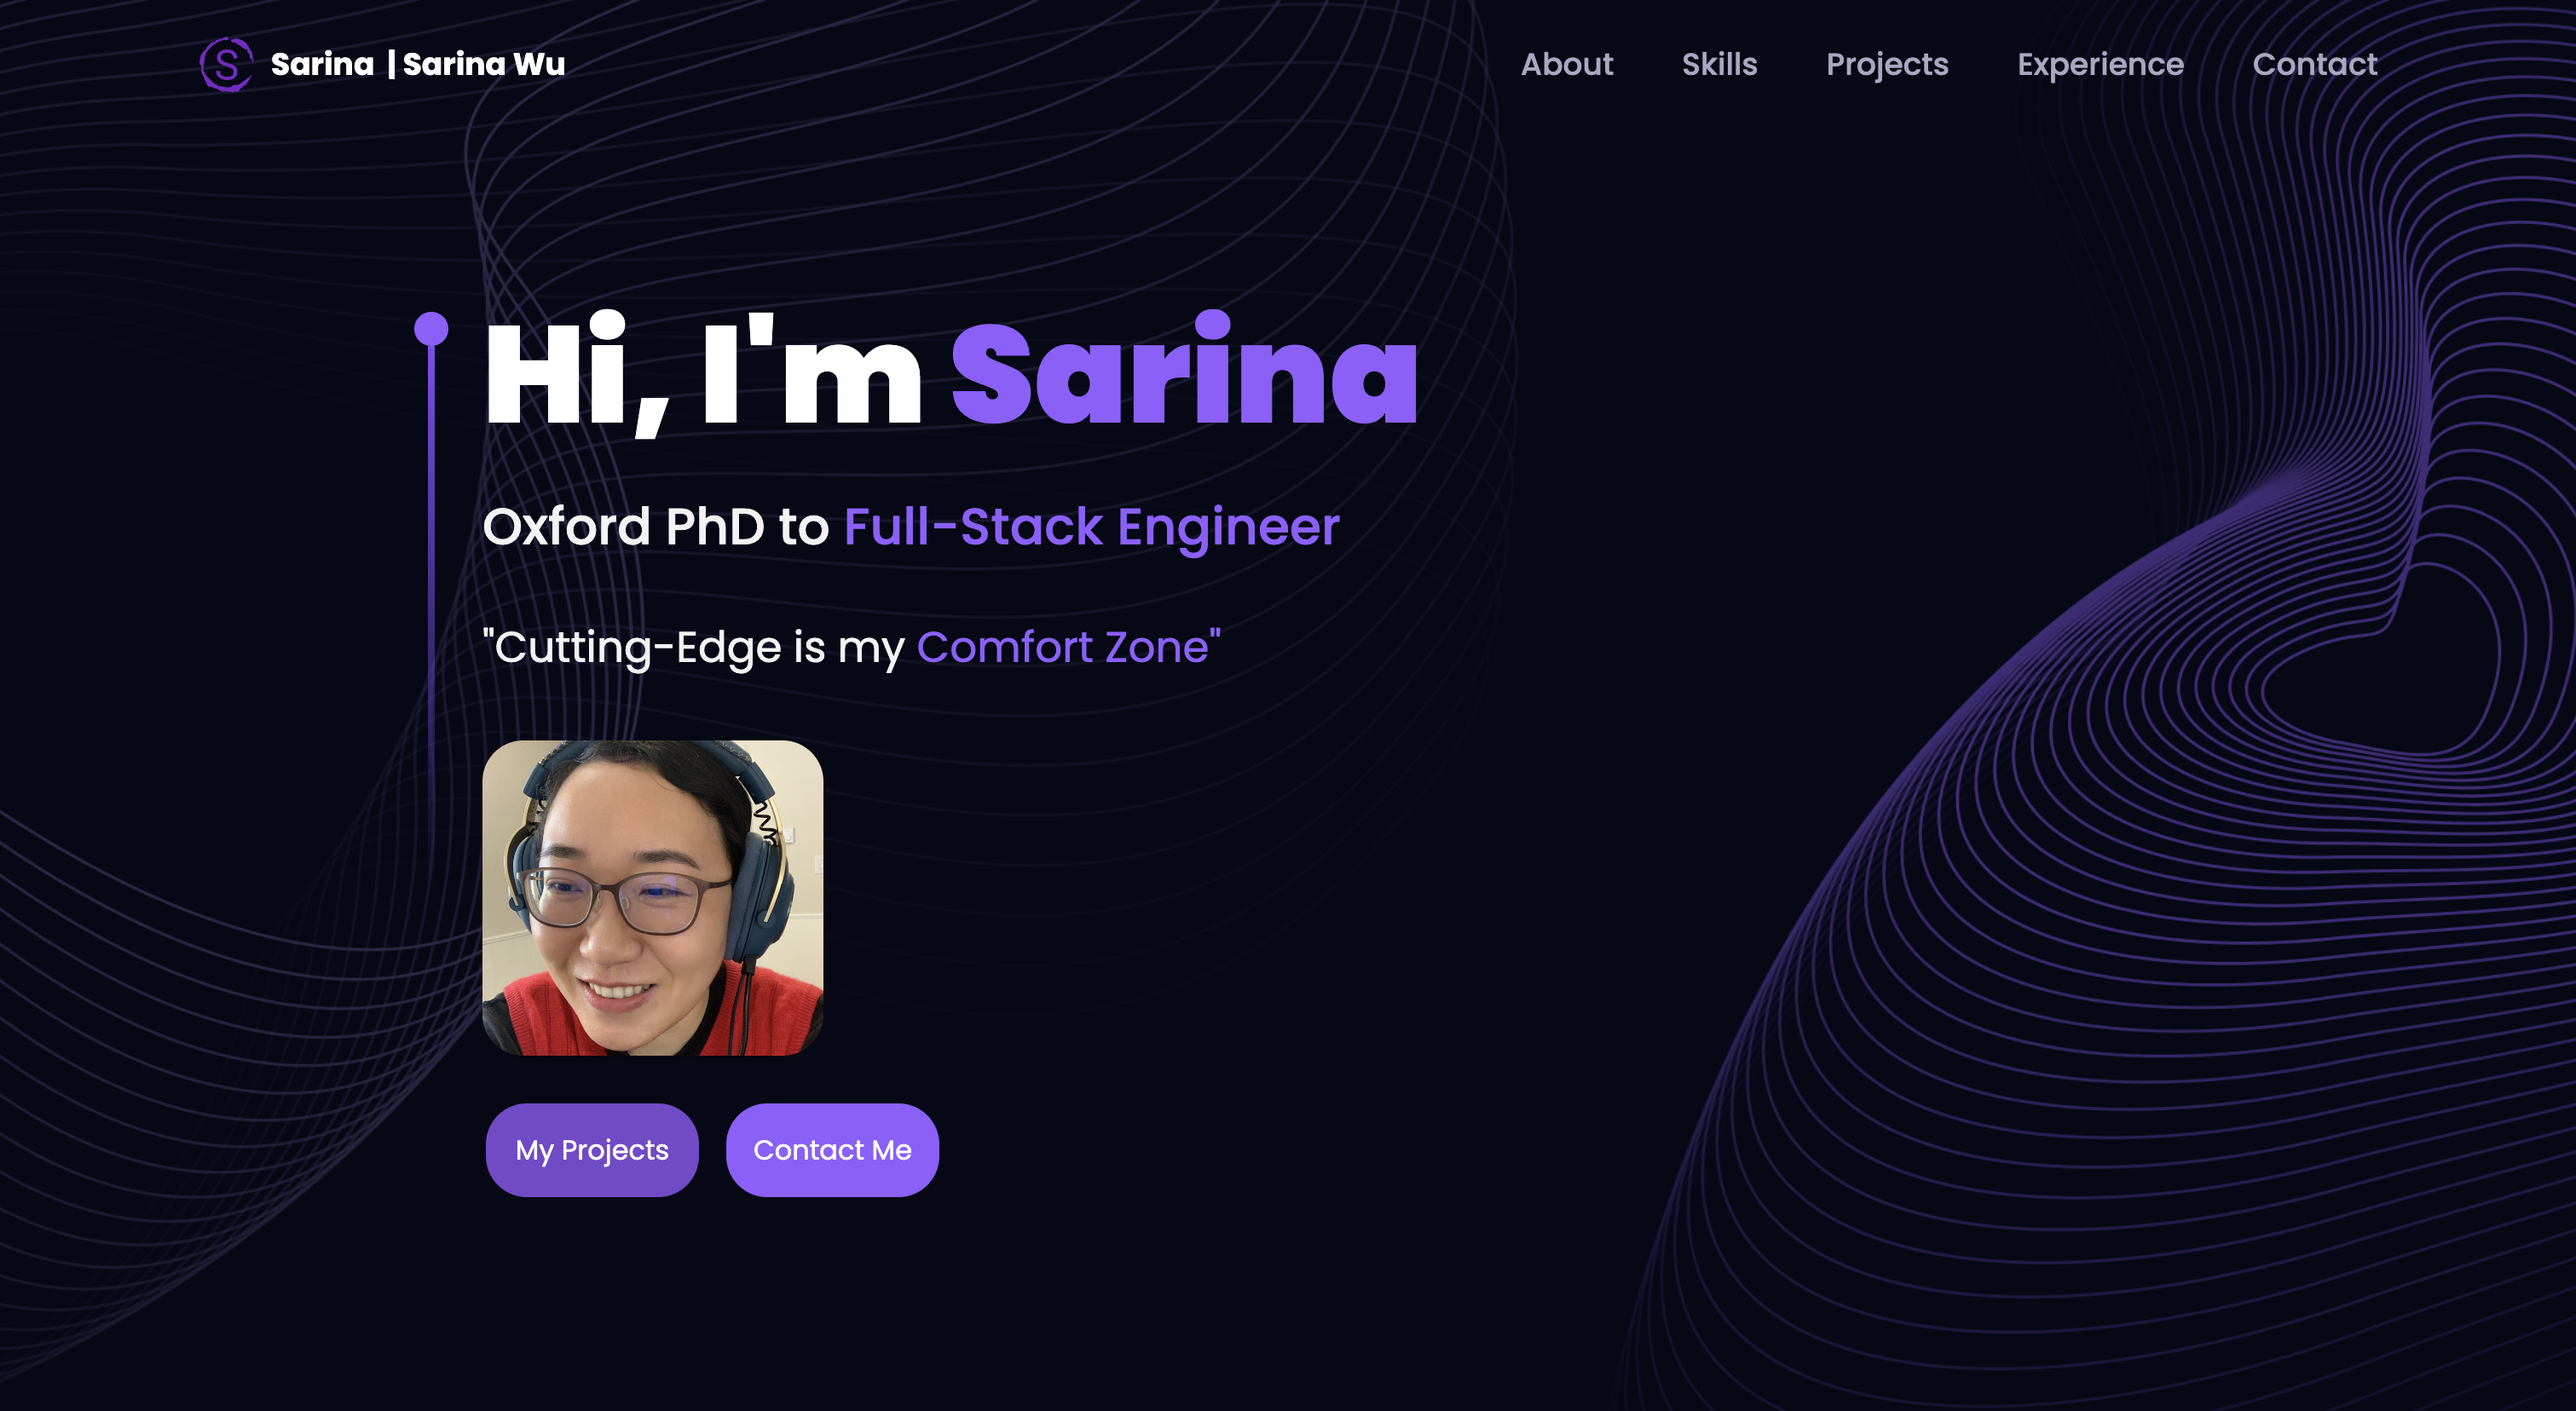
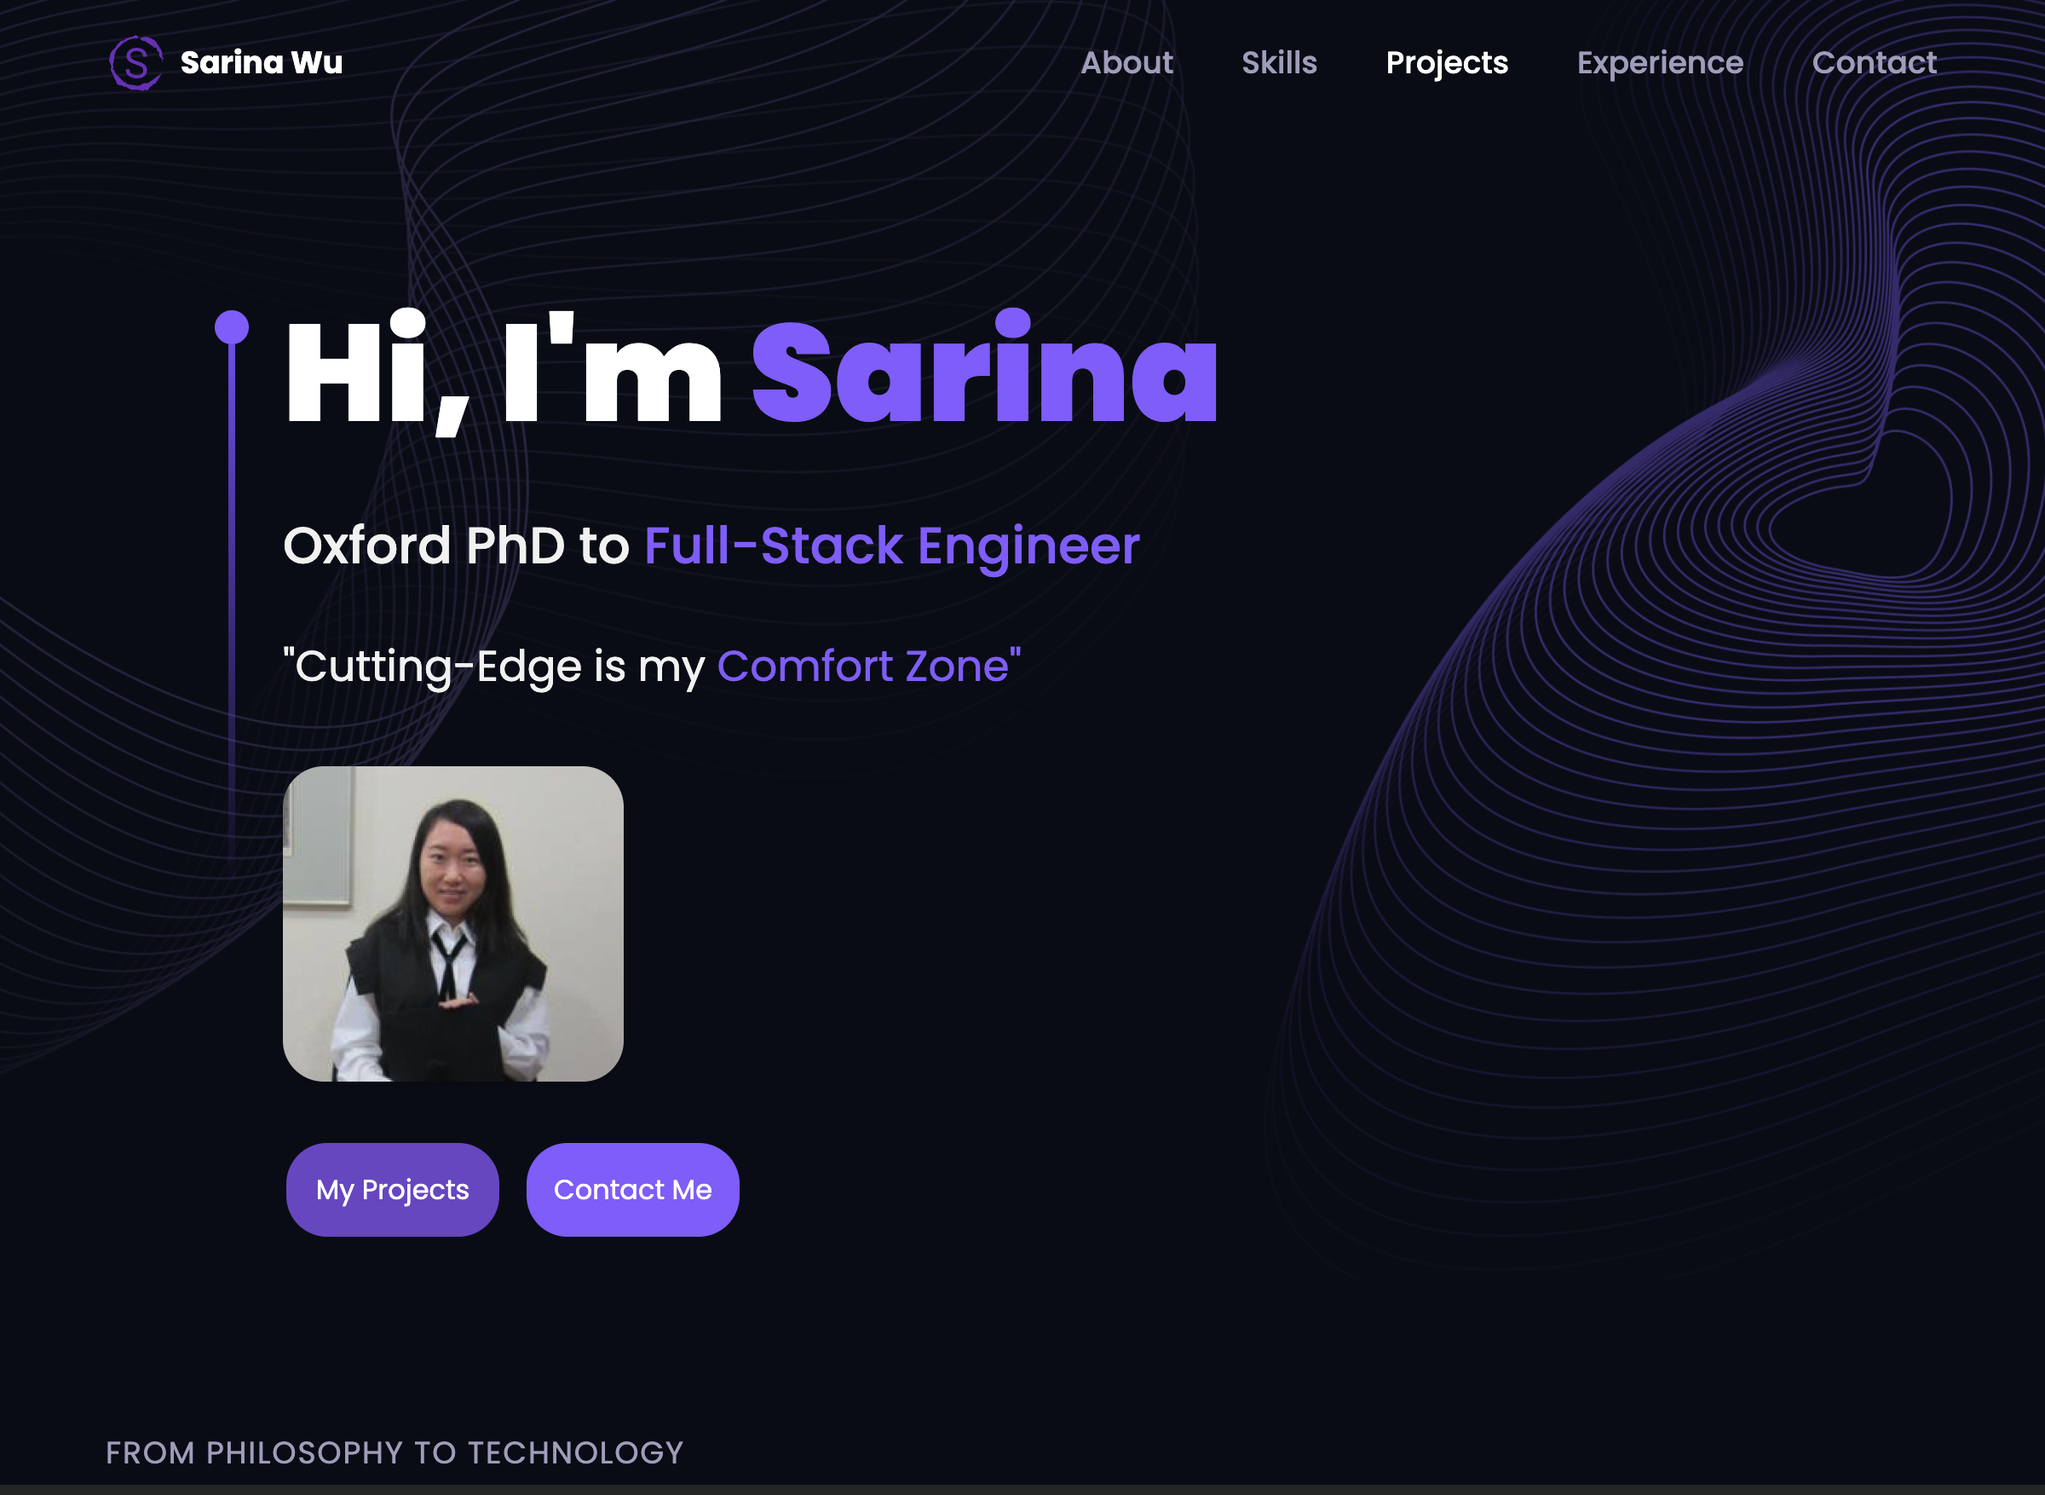
Update About, Hero, and project images; rebuild

diff --git a/src/constants/index.js b/src/constants/index.js
@@ -70,26 +70,26 @@ import {
       icon: javascript,
       color: "blue-text-gradient",
     },
-    {
-      name: "TypeScript",
-      icon: typescript,
-      color: "blue-text-gradient",
-    },
+    // {
+    //   name: "TypeScript",
+    //   icon: typescript,
+    //   color: "blue-text-gradient",
+    // },
     {
       name: "React",
       icon: reactjs,
       color: "blue-text-gradient",
     },
-    {
-      name: "React Native",
-      icon: reactnative,
-      color: "blue-text-gradient",
-    },
-    {
-      name: "React Query",
-      icon: reactquery,
-      color: "blue-text-gradient",
-    },
+    // {
+    //   name: "React Native",
+    //   icon: reactnative,
+    //   color: "blue-text-gradient",
+    // },
+    // {
+    //   name: "React Query",
+    //   icon: reactquery,
+    //   color: "blue-text-gradient",
+    // },
     {
       name: "Redux Toolkit",
       icon: redux,
@@ -100,11 +100,11 @@ import {
       icon: redux,
       color: "blue-text-gradient",
     },
-    {
-      name: "Next.js",
-      icon: nextjs,
-      color: "blue-text-gradient",
-    },
+    // {
+    //   name: "Next.js",
+    //   icon: nextjs,
+    //   color: "blue-text-gradient",
+    // },
     {
       name: "Vite",
       icon: vite,
@@ -165,11 +165,11 @@ import {
       icon: rapidapi,
       color: "green-text-gradient",
     },
-    {
-      name: "Appwrite",
-      icon: appwrite,
-      color: "green-text-gradient",
-    },
+    // {
+    //   name: "Appwrite",
+    //   icon: appwrite,
+    //   color: "green-text-gradient",
+    // },
     {
       name: "PostgreSQL",
       icon: postgresql,
@@ -261,9 +261,9 @@ import {
       iconBg: "#383E56",
       date: "Nov 2023 - Now",
       points: [
-        "Implemented a Single-Page Application (SPA) using React, React Hooks, Ant Design, Chart.js, and CSS to optimize the user experience with seamless navigation and dynamic content loading.",
-        "Utilized Redux Toolkit to streamline centralized state management across diverse components, enhancing the maintainability and scalability of the application.",
-        "Integrated RTK Query and Rapid API to optimize data fetching and management, leading to a more efficient and responsive application with real-time cryptocurrency data updates.",
+        "Implemented a Single-Page Application (SPA) using React, React Hooks, Ant Design, Chart.js, and CSS to optimize the user experience with seamless navigation, dynamic content loading, and visually appealing design.",
+        "Utilized Redux Toolkit to centralize state management across diverse components, improving the maintainability and scalability of the application.",
+        "Integrated RTK Query and Rapid API to enhance data fetching and management, resulting in a highly efficient and responsive application that provides real-time updates on cryptocurrency data.",
       ],
     },
     {
@@ -313,10 +313,10 @@ import {
       iconBg: "#383E56",
       date: "Apr 2023 - Jun 2023",
       points: [
-        "Created PostgreSQL databases using Django, SQL, and migrations to establish a meticulously structured database solution, facilitating seamless data management, retrieval, and an optimized system performance.",
-        "Created REST API endpoints to facilitate efficient data exchange between the React frontend and the databases.",
-        "Utilized Docker, Microservices, and polling strategies to ensure efficient data synchronization across services.",
-        "Established four CI/CD pipelines for seamless deployment of backend and frontend on Heroku and Netlify, including database migrations, environment variable configuration, and extensive debugging for continuous delivery.",
+        "Created PostgreSQL databases with Django, SQL, and migrations for efficient data management and retrieval.",
+        "Created REST API endpoints for streamlined data communication between the React frontend and the databases.",
+        "Utilized Docker, Microservices, and polling strategies to optimize data synchronization across various services.",
+        "Established four CI/CD pipelines for backend and frontend deployment on Heroku and Netlify, incorporating database migrations, environment variable configuration, and extensive debugging to ensure continuous delivery.",
       ],
     },
     {
@@ -326,9 +326,9 @@ import {
       iconBg: "#383E56",
       date: "Mar 2023 - Apr 2023",
       points: [
-        "Implemented a Django authentication system, reinforcing robust password validation on the signup form and enforcing restricted access exclusively for logged-in users to enhance user account security.",
-        "Designed a responsive interface using HTML and CSS, improving cross-device compatibility, readability, and strategically guiding user attention through effective design principles.",
-        "Developed and maintained a robust CI/CD pipeline, optimizing software development processes for efficient code integration, automated testing, and seamless deployment on Heroku.",
+        "Implemented a Django authentication system with robust password validation on the signup form and exclusive restricted access for logged-in users to enhance user account security.",
+        "Developed a responsive interface using HTML and CSS to enhance cross-device compatibility, readability, and strategically direct user attention through the application of effective design principles.",
+        "Developed and maintained a robust CI/CD pipeline, optimizing software development processes for efficient code integration, automated testing, and smooth deployment on Heroku.",
       ],
     },
     {

diff --git a/src/components/Hero.jsx b/src/components/Hero.jsx
@@ -1,7 +1,7 @@
 import { motion } from 'framer-motion';
 import { styles } from '../styles'
 import { SectionWrapper } from '../hoc';
-import { me } from "../assets";
+import { me, me2 } from "../assets";
 
 const Hero = () => {
   return (
@@ -9,9 +9,9 @@ const Hero = () => {
       <div
         className={`${styles.paddingX} absolute inset-0 top-[75px] max-w-7xl mx-auto flex flex-row items-start gap-5`}
       >
-        <div className='flex flex-col justify-center items-center mt-5'>
+        <div className='flex flex-col items-center justify-center mt-5'>
           <div className='w-5 h-5 rounded-full bg-[#915EFF]' />
-          <div className='w-1 sm:h-80 h-40 violet-gradient' />
+          <div className='w-1 h-40 sm:h-80 violet-gradient' />
         </div>
 
         <div>
@@ -33,14 +33,14 @@ const Hero = () => {
                   rel="noopener noreferrer"
                 >
                   <img
-                    src={me}
-                    alt='me'
+                    src={me2}
+                    alt='me2'
                     className="mt-10 w-[200px] h-[185px] object-cover rounded-3xl shadow-md"
                   />
                 </a>
           </div>
           <div className="mt-9 flex w-[270px] gap-3" >
-                <div className='xs:bottom-40 bottom-32 w-full flex justify-center items-center'>
+                <div className='flex items-center justify-center w-full xs:bottom-40 bottom-32'>
                   <a href='#projects'>
                 <div className='w-[125px] h-[55px] rounded-3xl border-3 border-secondary flex justify-center items-start p-4'
                   style={{ backgroundColor: '#7848CC', color: 'white', display: 'flex', alignItems: 'center', justifyContent: 'center', transition: 'background-color 0.3s, color 0.3s' }}>
@@ -48,7 +48,7 @@ const Hero = () => {
                 </div>
                 </a>
                 </div>
-                <div className='xs:bottom-20 bottom-32 w-full flex justify-center items-center'>
+                <div className='flex items-center justify-center w-full xs:bottom-20 bottom-32'>
                 <a href='#contact'>
                 <div className='w-[125px] h-[55px] rounded-3xl border-3 border-secondary flex justify-center items-start p-4'
                 style={{ backgroundColor: '#915EFF', color: 'white', display: 'flex', alignItems: 'center', justifyContent: 'center', transition: 'background-color 0.3s, color 0.3s' }}>

diff --git a/src/components/About.jsx b/src/components/About.jsx
@@ -26,18 +26,19 @@ const About = () => {
     possibilities that language and knowledge can unlock.
     <br />
     <br />
-    My passion for software engineering began at Oxford, where one of my D.Phil (the term for PhD at Oxford) mentors, now affiliated with 
-    the Department of Engineering Science, had spent decades working on Digital Cultural Heritage. As a result of this 
-    experience I shifted my interests from Oriental Studies to Computer Science. (Fun fact: I defended my D.Phil dissertation 
-    in the building of Department of Computer Science at Oxford, subtly foreshadowing my future career shift.)
+    My passion for software engineering began at Oxford, where one of my PhD mentors, 
+    now affiliated with the Department of Engineering Science, had spent decades working on 
+    Digital Cultural Heritage, which led to my shift in interests from Oriental Studies to 
+    Computer Science. *Fun fact: I defended my D.Phil dissertation in the Department 
+    of Computer Science building at Oxford, subtly foreshadowing my future career shift.*
     <br />
     <br />
-    As a dedicated Full-Stack Engineer with over 1000 hours of training
-    in an Agile environment, I have built a solid foundation in both frontend and backend technologies,
-    from creating user interfaces using JavaScript frameworks like React and Redux, to architecting server-side solutions with Python, Django,
-    REST API, and FastAPI. Proficiency in PostgreSQL and MongoDB ensures seamless data management
-    and retrieval. I'm also a quick learner and collaborate closely with clients to create effcient, scalable, and user-friendly solutions
-    that solve real-world problems. Let's work together to bring your ideas to life!
+    As a dedicated Full-Stack Engineer with over 1000 hours of training in Agile environments, 
+    I bring hands-on experience spanning the entire software development lifecycle, from planning to implementation. 
+    Proficient in CI/CD processes, I specialize in ensuring smooth software deployments. Thriving in cross-functional teams, 
+    I foster collaborative problem-solving to guarantee the timely delivery of high-quality software solutions. 
+    Leveraging my background in social science research, I instill a user-centric approach, emphasizing the broader impact of development decisions. 
+    Let's work together to bring your ideas to life!
     </motion.div>
     </>
   );

diff --git a/src/assets/index.js b/src/assets/index.js
@@ -2,6 +2,7 @@ import github from "./github.png";
 import menu from "./menu.svg";
 import close from "./close.svg";
 import logo from "./logo.svg";
+import me2 from "./me2.png";
 
 import css from "./tech/css.png";
 import docker from "./tech/docker.png";
@@ -91,4 +92,5 @@ export {
   digitalocean,
   bank,
   heroku,
+  me2,
 };
